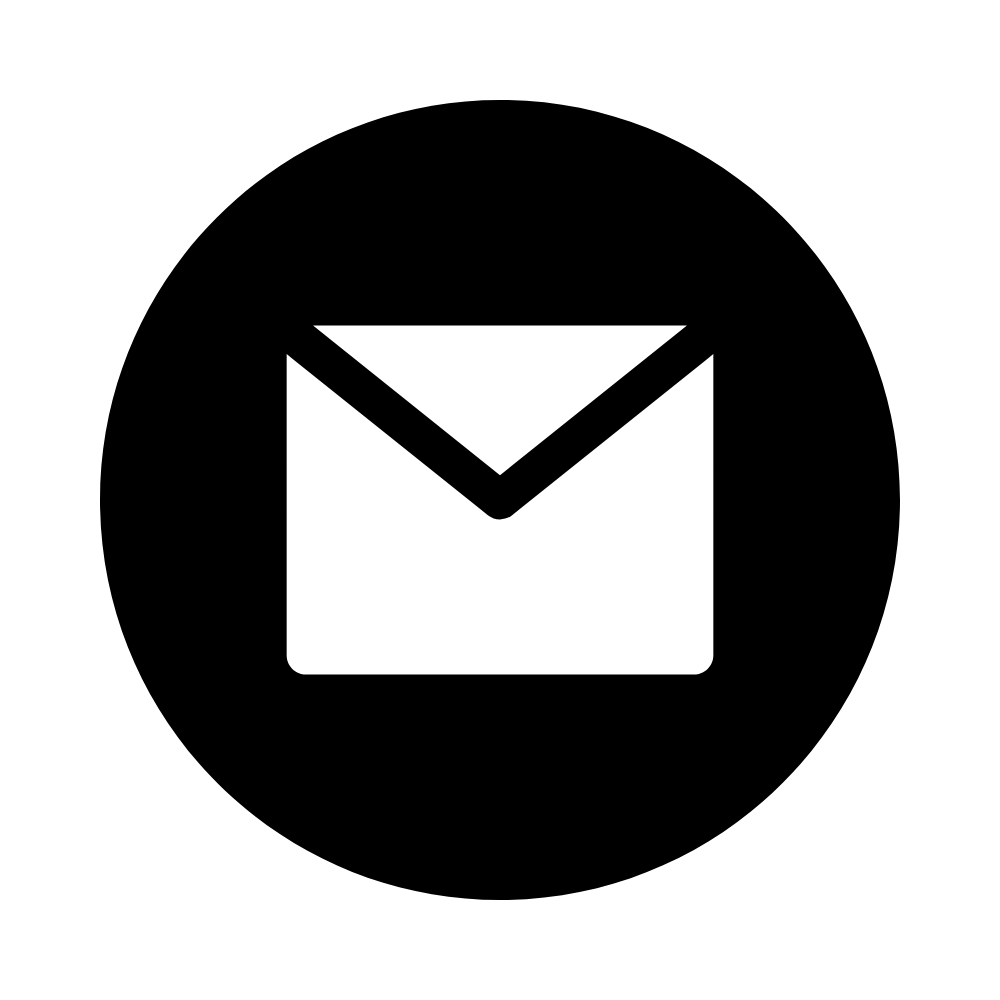
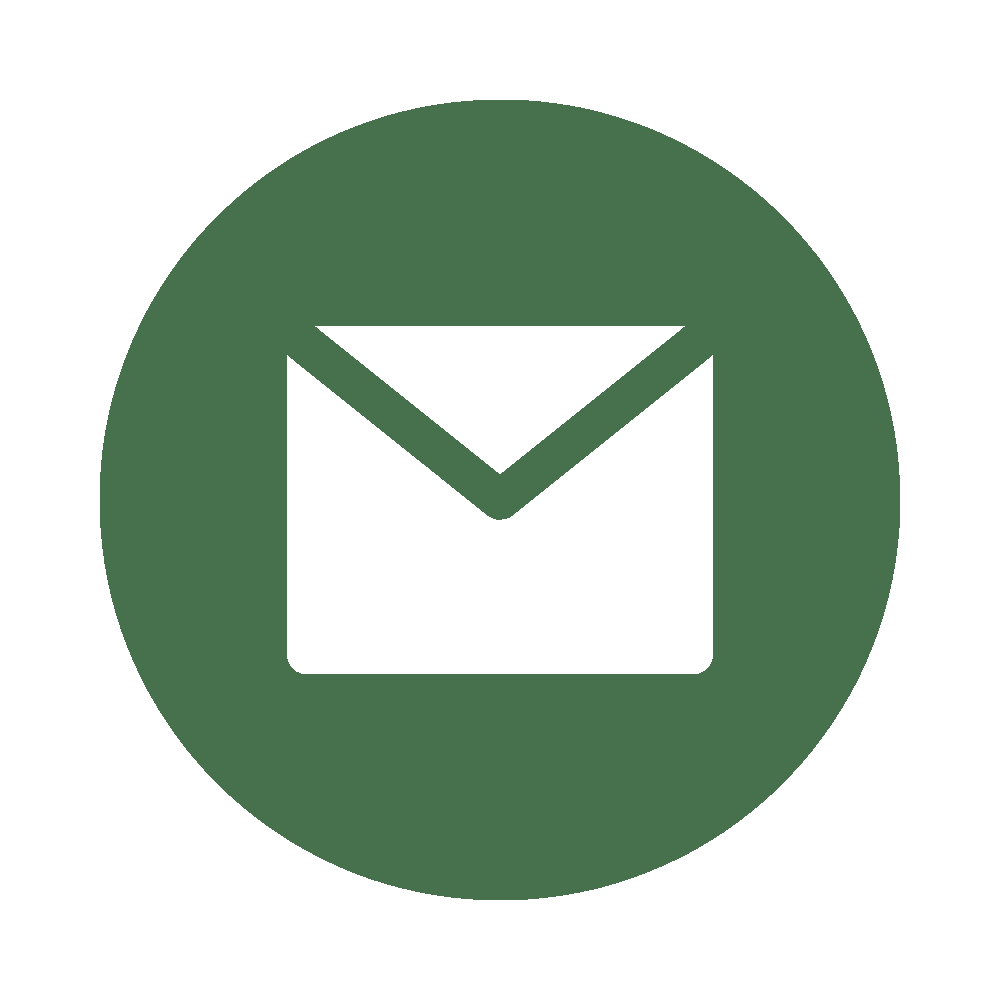
add contact

diff --git a/index.html b/index.html
@@ -56,13 +56,13 @@
           <img
             src="./assets/linkedin.png"
             alt="My LinkedIn profile"
-            class="icon"
+            class="icon icon_clickable"
             onclick="openLink('https://linkedin.com/in/junjie-mao-a18552183')"
           />
           <img
             src="./assets/github.png"
             alt="My Github profile"
-            class="icon"
+            class="icon icon_clickable"
             onclick="openLink('https://github.com/jasoncnm')"
           />
         </div>
@@ -83,7 +83,7 @@
             <img
               src="./assets/github.png"
               alt="My Github profile"
-              class="icon"
+              class="icon icon_clickable"
               onclick="openLink('https://github.com/jasoncnm/Jason-s_3rd_law')"
             />
           </div>         
@@ -103,7 +103,7 @@
               <img
                 src="./assets/github.png"
                 alt="My Github profile"
-                class="icon"
+                class="icon icon_clickable"
                 onclick="openLink('https://github.com/jasoncnm/splatoon50')"
               />
             </div>  
@@ -123,7 +123,7 @@
               <img
                 src="./assets/github.png"
                 alt="My Github profile"
-                class="icon"
+                class="icon icon_clickable"
                 onclick="openLink('https://github.com/jasoncnm/glfw-template')"
               />
             </div>  
@@ -154,7 +154,7 @@
               <img
                 src="./assets/internet.png"
                 alt="CinLearn website"
-                class="icon"
+                class="icon icon_clickable"
                 onclick="openLink('https://www.cinlearn.com/')"
               />
             </div>
@@ -164,6 +164,13 @@
           <img src="./assets/cinlearn.png" alt="CinLearn website" class="experience-img">
         </div>
         </div>
+      </div>
+    </section>
+    <section id="contact">
+      <div class="email-containter">
+        <p class="section__text section__text__p1 text_style_1">Contact Me</p>
+        <img src="./assets/email.png" class="icon">
+        <p class="section__text"><a href="mailto:jasonmao0802@gmail.com">jasonmao0802@gmail.com</a></p>
       </div>
     </section>
     <script src="script.js"></script>

diff --git a/style.css b/style.css
@@ -227,8 +227,14 @@ section {
 #contact {
   display: flex;
   justify-content: center;
-  flex-direction: column;
-  height: 70vh;
+}
+
+.email-containter {
+  padding-bottom: 10rem;
+  display: flex;
+  justify-content: center;
+  justify-self: center;
+  gap: 1rem;
 }
 
 .section__pic-container {
@@ -269,6 +275,10 @@ section {
   background: none;
 }
 
+.text_style_1 {
+  color: #8ec291;
+}
+
 .section__text__p2 {
   font-size: 1.75rem;
   margin-bottom: 1rem;
@@ -302,11 +312,14 @@ section {
 .icon {
   cursor: pointer;
   height: 3rem;
-  transition: all 200ms cubic-bezier(0.175, 0.885, 0.32, 1.275);
   background: none;
 }
 
-.icon:hover {
+.icon_clickable {
+  transition: all 200ms cubic-bezier(0.175, 0.885, 0.32, 1.275);
+}
+
+.icon_clickable:hover {
   transform: scale(1.2);
 }
 
